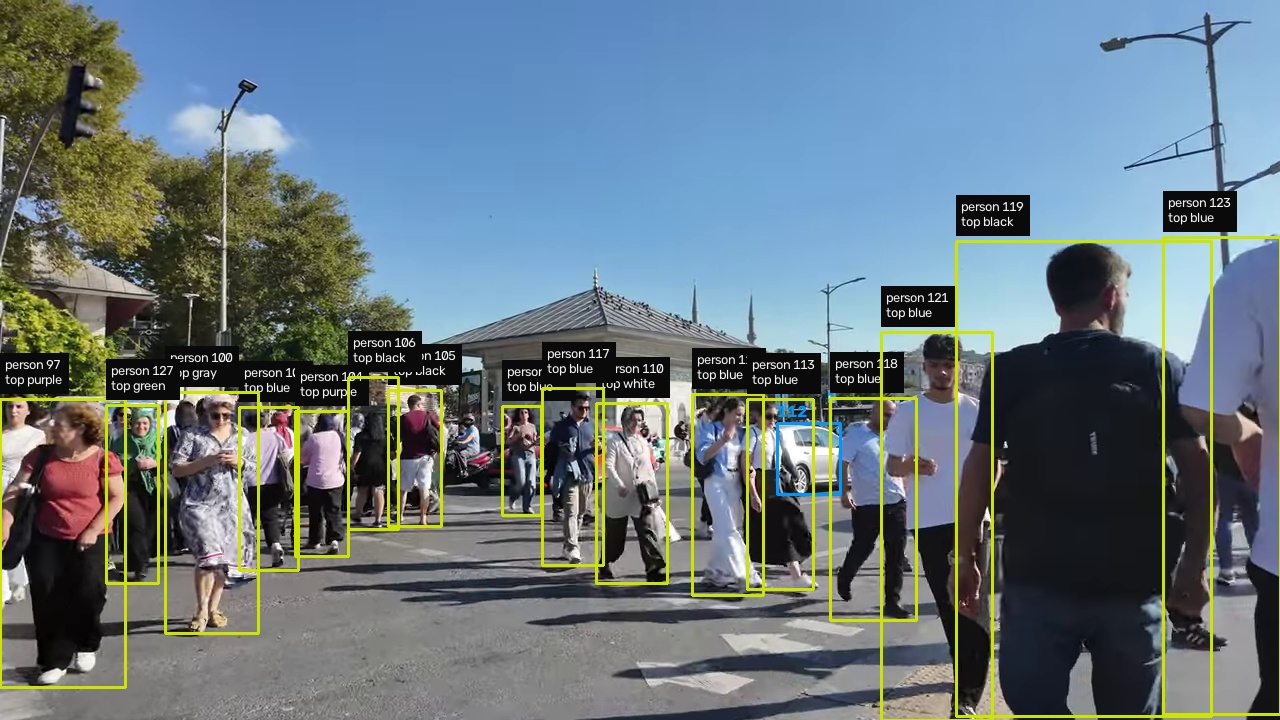
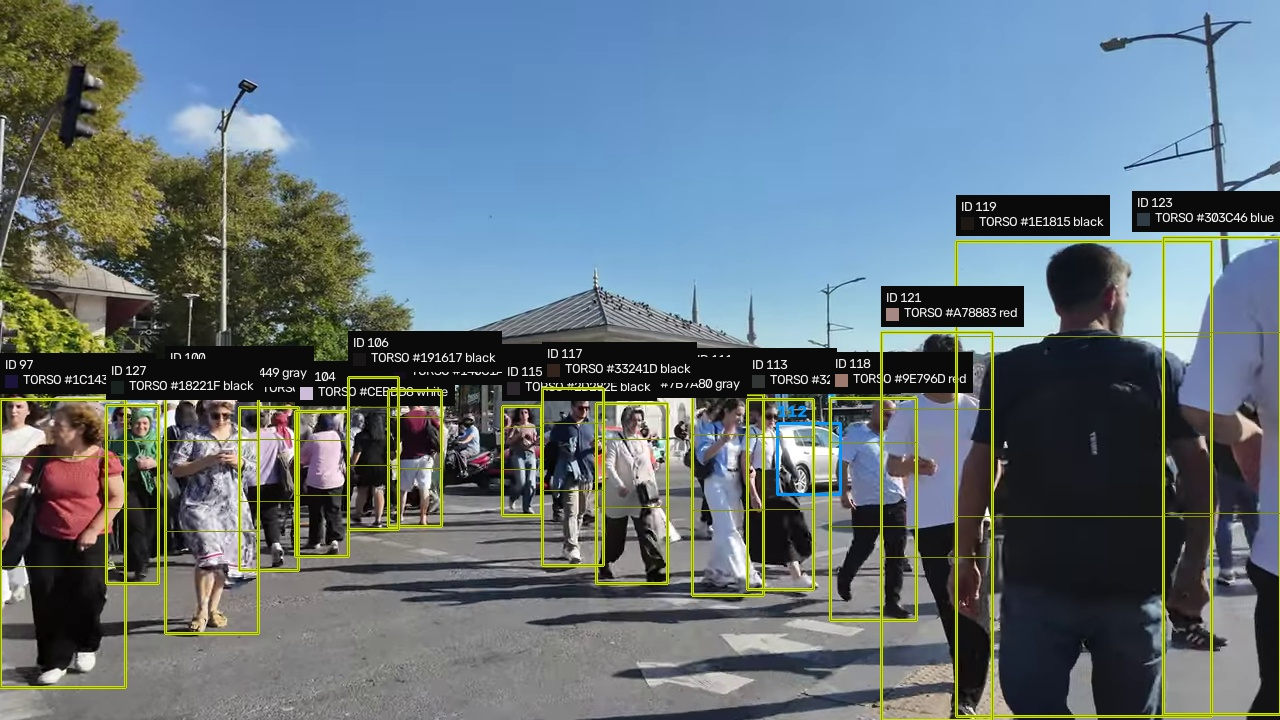
feat: part-based bodies with measured live color swatches

diff --git a/raksha/vision/overlay.py b/raksha/vision/overlay.py
@@ -1,16 +1,67 @@
-"""Chinese-VMS style overlay: box plus attached multi-line attribute panel."""
+"""Chinese-VMS style overlay: part boxes plus measured-color panels.
+
+Panels anchor above the box so bodies stay visible. Swatch squares show the
+measured color, hex plus name beside it. Crowded frames fall back to compact
+panels automatically.
+"""
 import cv2
 
 BOX = (0, 229, 204)
 BOX_VEH = (255, 150, 0)
-TRAIL = (255, 59, 92)
+PART_BOX = (0, 150, 135)
 PANEL_BG = (10, 10, 10)
 PANEL_FG = (240, 240, 240)
 FONT = cv2.FONT_HERSHEY_SIMPLEX
+FS, TH, PAD, LH = 0.45, 1, 5, 15
+SW = 12  # swatch square size
+
+
+def _text_row(frame, px, py, text, xoff=0):
+    cv2.putText(frame, text, (px + PAD + xoff, py), FONT, FS, PANEL_FG, TH, cv2.LINE_AA)
+
+
+def draw_person(frame, det, trail, parts, zone_line, compact=False):
+    """parts: {name: {'box': (x1,y1,x2,y2), 'bgr': (b,g,r), 'name': str, 'hex': str}}."""
+    x1, y1, x2, y2 = [int(v) for v in det["xyxy"]]
+    cv2.rectangle(frame, (x1, y1), (x2, y2), BOX, 2)
+    for i in range(1, len(trail)):
+        cv2.line(frame, trail[i - 1], trail[i], (255, 59, 92), 2)
+    H, W = frame.shape[:2]
+    for pname, p in parts.items():
+        bx1, by1, bx2, by2 = [int(v) for v in p["box"]]
+        cv2.rectangle(frame, (max(0, bx1), max(0, by1)), (min(W, bx2), min(H, by2)), PART_BOX, 1)
+    rows = [("t", f"ID {det['id']}")]
+    if "torso" in parts:
+        t = parts["torso"]
+        rows.append(("s", f"TORSO {t['hex']} {t['name']}", t["bgr"]))
+    if not compact and "legs" in parts:
+        lg = parts["legs"]
+        rows.append(("s", f"LEGS {lg['hex']} {lg['name']}", lg["bgr"]))
+    if not compact:
+        rows.append(("t", zone_line))
+    widths = []
+    for kind, text, *rest in rows:
+        w = cv2.getTextSize(text, FONT, FS, TH)[0][0]
+        widths.append(w + (SW + 6 if kind == "s" else 0))
+    bw, bh = max(widths) + PAD * 2, len(rows) * LH + PAD * 2
+    px, py = x1, y1 - bh - 6
+    if py < 0:
+        px = x2 + 6 if int(det["id"] or 0) % 2 == 0 else x1 - bw - 8
+        py = y1
+    px = max(0, min(px, W - bw))
+    py = max(0, min(py, H - bh))
+    cv2.rectangle(frame, (px, py), (px + bw, py + bh), PANEL_BG, -1)
+    for i, (kind, text, *rest) in enumerate(rows):
+        ty = py + PAD + (i + 1) * LH - 4
+        if kind == "s":
+            cv2.rectangle(frame, (px + PAD, ty - SW + 3), (px + PAD + SW, ty + 3), rest[0], -1)
+            _text_row(frame, px, ty, text, SW + 6)
+        else:
+            _text_row(frame, px, ty, text)
 
 
 def draw_panel(frame, x, y, lines, scale=0.45, side="right"):
-    """Dark label stack at (x, y). Returns bottom y."""
+    """Legacy simple panel (vehicles)."""
     fs, th, pad, lh = scale, 1, 5, 15
     widths = [cv2.getTextSize(t, FONT, fs, th)[0][0] for t in lines]
     bw, bh = max(widths) + pad * 2, len(lines) * lh + pad * 2
@@ -29,11 +80,12 @@ def draw_panel(frame, x, y, lines, scale=0.45, side="right"):
 
 
 def draw_track(frame, det, trail, extra_lines=None, box_color=None, full_panel_h=90, compact=False):
+    """Vehicle/simple path: colored box plus small dark panel."""
     x1, y1, x2, y2 = [int(v) for v in det["xyxy"]]
     color = box_color or (BOX_VEH if det.get("cls", 0) != 0 else BOX)
     cv2.rectangle(frame, (x1, y1), (x2, y2), color, 2)
     for i in range(1, len(trail)):
-        cv2.line(frame, trail[i - 1], trail[i], TRAIL, 2)
+        cv2.line(frame, trail[i - 1], trail[i], (255, 59, 92), 2)
     if y2 - y1 < full_panel_h or det["id"] is None:
         cv2.putText(frame, str(det["id"]), (x1, max(0, y1 - 6)),
                     FONT, 0.55, color, 2, cv2.LINE_AA)
@@ -41,24 +93,11 @@ def draw_track(frame, det, trail, extra_lines=None, box_color=None, full_panel_h
     lines = [f"{det.get('label', 'ID')} {det['id']}"]
     if extra_lines:
         lines += extra_lines[:1] if compact else extra_lines
-    fs, th, pad, lh = 0.45, 1, 5, 15
-    widths = [cv2.getTextSize(t, FONT, fs, th)[0][0] for t in lines]
-    bw, bh = max(widths) + pad * 2, len(lines) * lh + pad * 2
-    H, W = frame.shape[:2]
-    # anchor above the box so bodies stay visible; fall back to a free side
-    px, py = x1, y1 - bh - 6
-    if py < 0:
-        try:
-            side = "left" if int(det["id"]) % 2 else "right"
-        except (TypeError, ValueError):
-            side = "right"
-        px = x1 - bw - 8 if side == "left" else x2 + 6
-        py = y1
-    if px + bw > W:
-        px = max(0, W - bw)
-    if px < 0:
-        px = 0
-    py = max(0, min(py, H - bh))
-    cv2.rectangle(frame, (px, py), (px + bw, py + bh), PANEL_BG, -1)
-    for i, t in enumerate(lines):
-        cv2.putText(frame, t, (px + pad, py + pad + (i + 1) * lh - 4), FONT, fs, PANEL_FG, th, cv2.LINE_AA)
+    try:
+        side = "left" if int(det["id"]) % 2 else "right"
+    except (TypeError, ValueError):
+        side = "right"
+    if side == "left":
+        draw_panel(frame, x1, y1, lines, side="left")
+    else:
+        draw_panel(frame, x2 + 6, y1, lines)

diff --git a/raksha/vision/attributes.py b/raksha/vision/attributes.py
@@ -1,58 +1,104 @@
-"""Per-track attributes, Chinese-VMS style: top/bottom clothing color, direction, speed.
+"""Part-based body attributes, real measured color (no hardcoded guesses).
 
-Color lessons from our own research notes (Dahua-style top/bottom split):
-central-region sampling only (full-width bands catch sky/arms), achromatic
-check before hue, mean over median for washed daylight cloth.
+Research grounding: rigid head/torso/legs split is the efficient classic
+(Zhu 15-patch, Feris body parsing); dominant color via k-means on small
+central crops (algolia/color-extractor pipeline: downscale, center crop,
+cluster, largest wins). Colors recomputed at most every 15 frames per
+track and cached, because clothing does not change frame to frame.
 """
 import cv2
 import numpy as np
 
+PARTS = (("head", 0.00, 0.20), ("torso", 0.20, 0.58), ("legs", 0.58, 1.00))
 
-def _classify(hsv):
-    mh, ms, mv = [float(np.mean(hsv[:, :, i])) for i in range(3)]
-    if mv < 60:
+
+def part_boxes(xyxy):
+    """Split person box into head/torso/legs (x1, y1, x2, y2) dict."""
+    x1, y1, x2, y2 = [int(v) for v in xyxy]
+    h = y2 - y1
+    if h <= 0:
+        return {}
+    return {name: (x1, y1 + int(h * a), x2, y1 + int(h * b)) for name, a, b in PARTS}
+
+
+def dominant_bgr(crop):
+    """Largest k-means cluster (k=2) on a small central crop. Returns (B, G, R)."""
+    h, w = crop.shape[:2]
+    cx0, cx1 = int(w * 0.25), int(w * 0.75)
+    cy0, cy1 = int(h * 0.25), int(h * 0.75)
+    small = cv2.resize(crop[cy0:cy1, cx0:cx1], (40, 40), interpolation=cv2.INTER_AREA)
+    data = small.reshape(-1, 3).astype(np.float32)
+    _, _, centers = cv2.kmeans(data, 2, None,
+                               (cv2.TERM_CRITERIA_EPS + cv2.TERM_CRITERIA_MAX_ITER, 8, 1.0),
+                               2, cv2.KMEANS_PP_CENTERS)
+    # largest cluster wins
+    d = ((data[:, None, :] - centers[None, :, :]) ** 2).sum(axis=2).argmin(axis=1)
+    best = int(np.bincount(d).argmax())
+    return tuple(int(v) for v in centers[best][::-1])  # BGR ints
+
+
+def name_of_bgr(bgr):
+    """Nearest of 11 basic colors in HSV space (fast, no tables)."""
+    arr = np.uint8([[list(bgr)]])
+    h, s, v = [float(x) for x in cv2.cvtColor(arr, cv2.COLOR_BGR2HSV)[0][0]]
+    if v < 60:
         return "black"
-    if ms < 45:
-        return "white" if mv > 140 else "gray"
-    if mh < 10 or mh > 160:
+    if s < 45:
+        return "white" if v > 140 else "gray"
+    if h < 10 or h > 160:
         return "red"
-    if mh < 25:
+    if h < 25:
         return "orange"
-    if mh < 38:
+    if h < 38:
         return "yellow"
-    if mh < 78:
+    if h < 78:
         return "green"
-    if mh < 100:
+    if h < 100:
         return "cyan"
-    if mh < 132:
+    if h < 132:
         return "blue"
     return "purple"
 
 
-def _band(frame, xyxy, y0, y1):
-    x1, y1_, x2, y2 = [int(v) for v in xyxy]
-    h, w = frame.shape[:2]
-    x1, y1_ = max(0, x1), max(0, y1_)
-    x2, y2 = min(w, x2), min(h, y2)
-    bh = y2 - y1_
-    if bh < 20 or x2 - x1 < 10:
-        return None
-    cx0 = x1 + int((x2 - x1) * 0.25)
-    cx1 = x2 - int((x2 - x1) * 0.25)
-    crop = frame[y1_ + int(bh * y0):y1_ + int(bh * y1), cx0:cx1]
-    if crop.size == 0:
-        return None
-    return cv2.cvtColor(crop, cv2.COLOR_BGR2HSV)
+def hex_of_bgr(bgr):
+    r, g, b = int(bgr[2]), int(bgr[1]), int(bgr[0])
+    return "#%02X%02X%02X" % (r, g, b)
+
+
+def part_colors(frame, xyxy):
+    """Measured color per body part: {part: (bgr, name, hex)}. Safe on tiny boxes."""
+    H, W = frame.shape[:2]
+    out = {}
+    for name, (x1, y1, x2, y2) in part_boxes(xyxy).items():
+        x1, y1 = max(0, x1), max(0, y1)
+        x2, y2 = min(W, x2), min(H, y2)
+        if x2 - x1 < 8 or y2 - y1 < 8:
+            continue
+        bgr = dominant_bgr(frame[y1:y2, x1:x2])
+        out[name] = (bgr, name_of_bgr(bgr), hex_of_bgr(bgr))
+    return out
+
+
+def parts_info(frame, xyxy):
+    """Merged per-part record for overlay: {part: {box, bgr, name, hex}}."""
+    boxes = part_boxes(xyxy)
+    cols = part_colors(frame, xyxy)
+    out = {}
+    for name, box in boxes.items():
+        if name in cols:
+            bgr, nm, hx = cols[name]
+            out[name] = {"box": box, "bgr": bgr, "name": nm, "hex": hx}
+    return out
 
 
 def top_color(frame, xyxy):
-    hsv = _band(frame, xyxy, 0.25, 0.55)
-    return _classify(hsv) if hsv is not None else "unknown"
+    pc = part_colors(frame, xyxy)
+    return pc["torso"][1] if "torso" in pc else "unknown"
 
 
 def bottom_color(frame, xyxy):
-    hsv = _band(frame, xyxy, 0.60, 0.92)
-    return _classify(hsv) if hsv is not None else "unknown"
+    pc = part_colors(frame, xyxy)
+    return pc["legs"][1] if "legs" in pc else "unknown"
 
 
 def direction(trail, fps=15.0):

diff --git a/raksha/backend/app.py b/raksha/backend/app.py
@@ -18,8 +18,8 @@ from raksha.vision.faces import FaceEngine
 from raksha.vision.gallery import Gallery
 from raksha.vision.dossier import Dossier
 from raksha.vision.brain import CrowdBrain
-from raksha.vision.attributes import top_color, bottom_color, direction
-from raksha.vision.overlay import draw_track
+from raksha.vision.attributes import top_color, bottom_color, direction, parts_info
+from raksha.vision.overlay import draw_track, draw_person
 
 SNAP_DIR = "D:/Q_project/gallery/snaps"
 os.makedirs(SNAP_DIR, exist_ok=True)
@@ -43,7 +43,7 @@ def vision_loop(src):
     eng = FaceEngine() if face_on else None
     brain = CrowdBrain()
     trails, votes, dossiers = {}, deque(maxlen=3), {}
-    risk_hist, captures = deque(maxlen=60), deque(maxlen=20)
+    risk_hist, captures, pcache = deque(maxlen=60), deque(maxlen=20), {}
     t0, n = time.time(), 0
     fps = 0.0
     while True:
@@ -69,9 +69,13 @@ def vision_loop(src):
             tr = trails.setdefault(d["id"], deque(maxlen=30))
             tr.append(((x1 + x2) // 2, (y1 + y2) // 2))
             dlbl, spd = direction(tr)
-            extra = [f"{top_color(f, d['xyxy'])}/{bottom_color(f, d['xyxy'])}",
-                     f"{zone_of.get(d['id'], '-')} {dwell_of.get(d['id'], 0):.0f}s {dlbl}"]
-            draw_track(f, d, tr, extra, compact=len(dets) > 12)
+            cc = pcache.get(d["id"])
+            if cc is None or n - cc[0] >= 15:
+                cc = (n, parts_info(f, d["xyxy"]))
+                pcache[d["id"]] = cc
+            draw_person(f, d, tr, cc[1],
+                        f"{zone_of.get(d['id'], '-')} {dwell_of.get(d['id'], 0):.0f}s {dlbl}",
+                        compact=len(dets) > 12)
         for d in vehicles:
             if d["id"] is None:
                 continue

diff --git a/scripts/live.py b/scripts/live.py
@@ -7,8 +7,8 @@ sys.path.insert(0, "D:/Q_project")
 from raksha.vision.ingest import open_source, read_frame
 from raksha.vision.tracker import PersonTracker
 from raksha.vision.zones import ZoneCounter
-from raksha.vision.attributes import top_color, bottom_color, direction
-from raksha.vision.overlay import draw_track
+from raksha.vision.attributes import top_color, bottom_color, direction, parts_info
+from raksha.vision.overlay import draw_track, draw_person
 
 ap = argparse.ArgumentParser()
 ap.add_argument("source", nargs="?", default="0")
@@ -26,6 +26,7 @@ trk = PersonTracker()
 zones = ZoneCounter({"Gate": [(0, 0), (0.5, 0), (0.5, 1), (0, 1)],
                      "Stage": [(0.5, 0), (1, 0), (1, 1), (0.5, 1)]})
 trails, writer = {}, None
+pcache = {}
 t0, frames = time.time(), 0
 fps = 0.0
 
@@ -51,9 +52,13 @@ while True:
         tr = trails.setdefault(d["id"], deque(maxlen=30))
         tr.append((cx, cy))
         dlbl, spd = direction(tr)
-        extra = [f"{top_color(f, d['xyxy'])}/{bottom_color(f, d['xyxy'])}",
-                 f"{zone_of.get(d['id'], '-')} {dwell_of.get(d['id'], 0):.0f}s {dlbl}"]
-        draw_track(f, d, tr, extra, compact=len(dets) > 12)
+        cc = pcache.get(d["id"])
+        if cc is None or frames - cc[0] >= 15:
+            cc = (frames, parts_info(f, d["xyxy"]))
+            pcache[d["id"]] = cc
+        draw_person(f, d, tr, cc[1],
+                    f"{zone_of.get(d['id'], '-')} {dwell_of.get(d['id'], 0):.0f}s {dlbl}",
+                    compact=len(dets) > 12)
     for d in vehicles:
         if d["id"] is None:
             continue

diff --git a/scripts/test_traffic.py b/scripts/test_traffic.py
@@ -4,8 +4,8 @@ from collections import deque, Counter
 import cv2
 sys.path.insert(0, "D:/Q_project")
 from raksha.vision.tracker import PersonTracker
-from raksha.vision.overlay import draw_track
-from raksha.vision.attributes import direction, top_color
+from raksha.vision.overlay import draw_track, draw_person
+from raksha.vision.attributes import direction, top_color, parts_info
 
 cap = cv2.VideoCapture("D:/Q_project/assets/clips/traffic.mp4")
 trk = PersonTracker()
@@ -33,7 +33,7 @@ while True:
             tr.append(((x1 + x2) // 2, (y1 + y2) // 2))
             if d["cls"] == 0:
                 dl, _ = direction(tr)
-                draw_track(f, d, tr, ["top " + top_color(f, d["xyxy"]), dl], compact=cmpct)
+                draw_person(f, d, tr, parts_info(f, d["xyxy"]), dl, compact=cmpct)
             else:
                 dl, sp = direction(tr)
                 draw_track(f, d, tr, [dl + " " + str(sp) + "px/s"], compact=cmpct)
